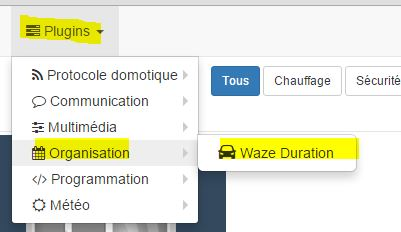
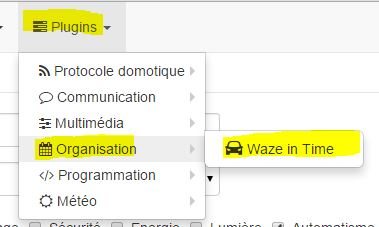
update init

diff --git a/core/class/wazeintime.class.php b/core/class/wazeintime.class.php
@@ -19,22 +19,22 @@
 /* * ***************************Includes********************************* */
 require_once dirname(__FILE__) . '/../../../../core/php/core.inc.php';
 
-class wazeduration extends eqLogic {
+class wazeintime extends eqLogic {
     /*     * *************************Attributs****************************** */
     
     public static function cron30($_eqlogic_id = null) {
 		if($_eqlogic_id !== null){
 			$eqLogics = array(eqLogic::byId($_eqlogic_id));
 		}else{
-			$eqLogics = eqLogic::byType('wazeduration');
+			$eqLogics = eqLogic::byType('wazeintime');
 		}
-        foreach ($eqLogics as $wazeduration) {
-			if ($wazeduration->getIsEnable() == 1) {
-				log::add('wazeduration', 'debug', 'Pull Cron pour Waze Duration');
-                $latdepart=$wazeduration->getConfiguration('latdepart');
-                $londepart=$wazeduration->getConfiguration('londepart');
-                $latarrive=$wazeduration->getConfiguration('latarrive');
-                $lonarrive=$wazeduration->getConfiguration('lonarrive');
+        foreach ($eqLogics as $wazeintime) {
+			if ($wazeintime->getIsEnable() == 1) {
+				log::add('wazeintime', 'debug', 'Pull Cron pour Waze Duration');
+                $latdepart=$wazeintime->getConfiguration('latdepart');
+                $londepart=$wazeintime->getConfiguration('londepart');
+                $latarrive=$wazeintime->getConfiguration('latarrive');
+                $lonarrive=$wazeintime->getConfiguration('lonarrive');
                 $wazeRouteurl = "https://www.waze.com/row-RoutingManager/routingRequest?from=x%3A$londepart+y%3A$latdepart&to=x%3A$lonarrive+y%3A$latarrive&at=0&returnJSON=true&returnGeometries=true&returnInstructions=true&timeout=60000&nPaths=3&options=AVOID_TRAILS%3At";
 				$wazeRoutereturl = "https://www.waze.com/row-RoutingManager/routingRequest?from=x%3A$lonarrive+y%3A$latarrive&to=x%3A$londepart+y%3A$latdepart&at=0&returnJSON=true&returnGeometries=true&returnInstructions=true&timeout=60000&nPaths=3&options=AVOID_TRAILS%3At";
 				$routeResponseText = file_get_contents($wazeRouteurl);
@@ -69,7 +69,7 @@ class wazeduration extends eqLogic {
                 }
                 $route1retTotalTimeMin = round($route1retTotalTimeSec/60);
                 $route2retTotalTimeMin = round($route2retTotalTimeSec/60);
-				foreach ($wazeduration->getCmd('info') as $cmd) {
+				foreach ($wazeintime->getCmd('info') as $cmd) {
 					switch ($cmd->getName()) {
 						case 'Durée 1':
 							$value=$route1TotalTimeMin;
@@ -92,10 +92,10 @@ class wazeduration extends eqLogic {
 					}
 					if ($value==0 ||$value != 'old'){
 						$cmd->event($value);
-						log::add('wazeduration','debug','set:'.$cmd->getName().' to '. $value);
+						log::add('wazeintime','debug','set:'.$cmd->getName().' to '. $value);
 					}
 				}
-                $wazeduration->refreshWidget();
+                $wazeintime->refreshWidget();
 			}
 		}
 	}
@@ -121,7 +121,7 @@ class wazeduration extends eqLogic {
         
         $routename1 = $this->getCmd(null, 'routename1');
 		if (!is_object($routename1)) {
-			$routename1 = new wazedurationCmd();
+			$routename1 = new wazeintimeCmd();
 			$routename1->setLogicalId('routename1');
 			$routename1->setIsVisible(1);
             $routename1->setOrder(3);
@@ -136,7 +136,7 @@ class wazeduration extends eqLogic {
         
         $time1 = $this->getCmd(null, 'time1');
 		if (!is_object($time1)) {
-			$time1 = new wazedurationCmd();
+			$time1 = new wazeintimeCmd();
 			$time1->setLogicalId('time1');
             $time1->setUnite('min');
 			$time1->setIsVisible(1);
@@ -152,7 +152,7 @@ class wazeduration extends eqLogic {
         
         $routename2 = $this->getCmd(null, 'routename2');
 		if (!is_object($routename2)) {
-			$routename2 = new wazedurationCmd();
+			$routename2 = new wazeintimeCmd();
 			$routename2->setLogicalId('routename2');
 			$routename2->setIsVisible(1);
             $routename2->setOrder(4);
@@ -167,7 +167,7 @@ class wazeduration extends eqLogic {
         
         $time2 = $this->getCmd(null, 'time2');
 		if (!is_object($time2)) {
-			$time2 = new wazedurationCmd();
+			$time2 = new wazeintimeCmd();
 			$time2->setLogicalId('time2');
 			$time2->setIsVisible(1);
             $time2->setOrder(2);
@@ -183,7 +183,7 @@ class wazeduration extends eqLogic {
         
         $routeretname1 = $this->getCmd(null, 'routeretname1');
 		if (!is_object($routeretname1)) {
-			$routeretname1 = new wazedurationCmd();
+			$routeretname1 = new wazeintimeCmd();
 			$routeretname1->setLogicalId('routeretname1');
 			$routeretname1->setIsVisible(1);
             $routeretname1->setOrder(7);
@@ -198,7 +198,7 @@ class wazeduration extends eqLogic {
         
         $timeret1 = $this->getCmd(null, 'timeret1');
 		if (!is_object($timeret1)) {
-			$timeret1 = new wazedurationCmd();
+			$timeret1 = new wazeintimeCmd();
 			$timeret1->setLogicalId('timeret1');
             $timeret1->setUnite('min');
 			$timeret1->setIsVisible(1);
@@ -214,7 +214,7 @@ class wazeduration extends eqLogic {
         
         $routeretname2 = $this->getCmd(null, 'routeretname2');
 		if (!is_object($routeretname2)) {
-			$routeretname2 = new wazedurationCmd();
+			$routeretname2 = new wazeintimeCmd();
 			$routeretname2->setLogicalId('routeretname2');
 			$routeretname2->setIsVisible(1);
             $routeretname2->setOrder(8);
@@ -229,7 +229,7 @@ class wazeduration extends eqLogic {
         
         $timeret2 = $this->getCmd(null, 'timeret2');
 		if (!is_object($timeret2)) {
-			$timeret2 = new wazedurationCmd();
+			$timeret2 = new wazeintimeCmd();
 			$timeret2->setLogicalId('timeret2');
 			$timeret2->setIsVisible(1);
             $timeret2->setOrder(6);
@@ -245,7 +245,7 @@ class wazeduration extends eqLogic {
         
         $refresh = $this->getCmd(null, 'refresh');
 		if (!is_object($refresh)) {
-			$refresh = new wazedurationCmd();
+			$refresh = new wazeintimeCmd();
 			$refresh->setLogicalId('refresh');
 			$refresh->setIsVisible(1);
             $refresh->setOrder(9);
@@ -298,12 +298,12 @@ class wazeduration extends eqLogic {
 			}
 		}
 
-		$html = template_replace($replace, getTemplate('core', $_version, 'eqlogic', 'wazeduration'));
+		$html = template_replace($replace, getTemplate('core', $_version, 'eqlogic', 'wazeintime'));
 		return $html;
 	}
 }
 
-class wazedurationCmd extends cmd {
+class wazeintimeCmd extends cmd {
     /*     * *************************Attributs****************************** */
 
 

diff --git a/desktop/php/wazeintime.php b/desktop/php/wazeintime.php
@@ -3,8 +3,8 @@ if (!isConnect('admin')) {
     throw new Exception('{{401 - Accès non autorisé}}');
 }
 
-sendVarToJS('eqType', 'wazeduration');
-$eqLogics = eqLogic::byType('wazeduration');
+sendVarToJS('eqType', 'wazeintime');
+$eqLogics = eqLogic::byType('wazeintime');
 ?>
 <div class="row row-overflow">
     <div class="col-lg-2">
@@ -34,7 +34,7 @@ $eqLogics = eqLogic::byType('wazeduration');
                 foreach ($eqLogics as $eqLogic) {
                     echo '<div class="eqLogicDisplayCard cursor" data-eqLogic_id="' . $eqLogic->getId() . '" style="background-color : #ffffff; height : 200px;margin-bottom : 10px;padding : 5px;border-radius: 2px;width : 160px;margin-left : 10px;" >';
                     echo "<center>";
-                    echo '<img src="plugins/wazeduration/doc/images/wazeduration_icon.png" height="105" width="95" />';
+                    echo '<img src="plugins/wazeintime/doc/images/wazeintime_icon.png" height="105" width="95" />';
                     echo "</center>";
                     echo '<span style="font-size : 1.1em;position:relative; top : 15px;word-break: break-all;white-space: pre-wrap;word-wrap: break-word;"><center>' . $eqLogic->getHumanName(true, true) . '</center></span>';
                     echo '</div>';
@@ -139,5 +139,5 @@ $eqLogics = eqLogic::byType('wazeduration');
     </div>
 </div>
 
-<?php include_file('desktop', 'wazeduration', 'js', 'wazeduration'); ?>
+<?php include_file('desktop', 'wazeintime', 'js', 'wazeintime'); ?>
 <?php include_file('core', 'plugin.template', 'js'); ?>

diff --git a/core/php/wazeintime.inc.php b/core/php/wazeintime.inc.php
@@ -19,5 +19,5 @@
 
 require_once dirname(__FILE__) . '/../../../../core/php/core.inc.php';
 
-include_file('core', 'wazeduration', 'class', 'wazeduration');
+include_file('core', 'wazeintime', 'class', 'wazeintime');
 ?>
